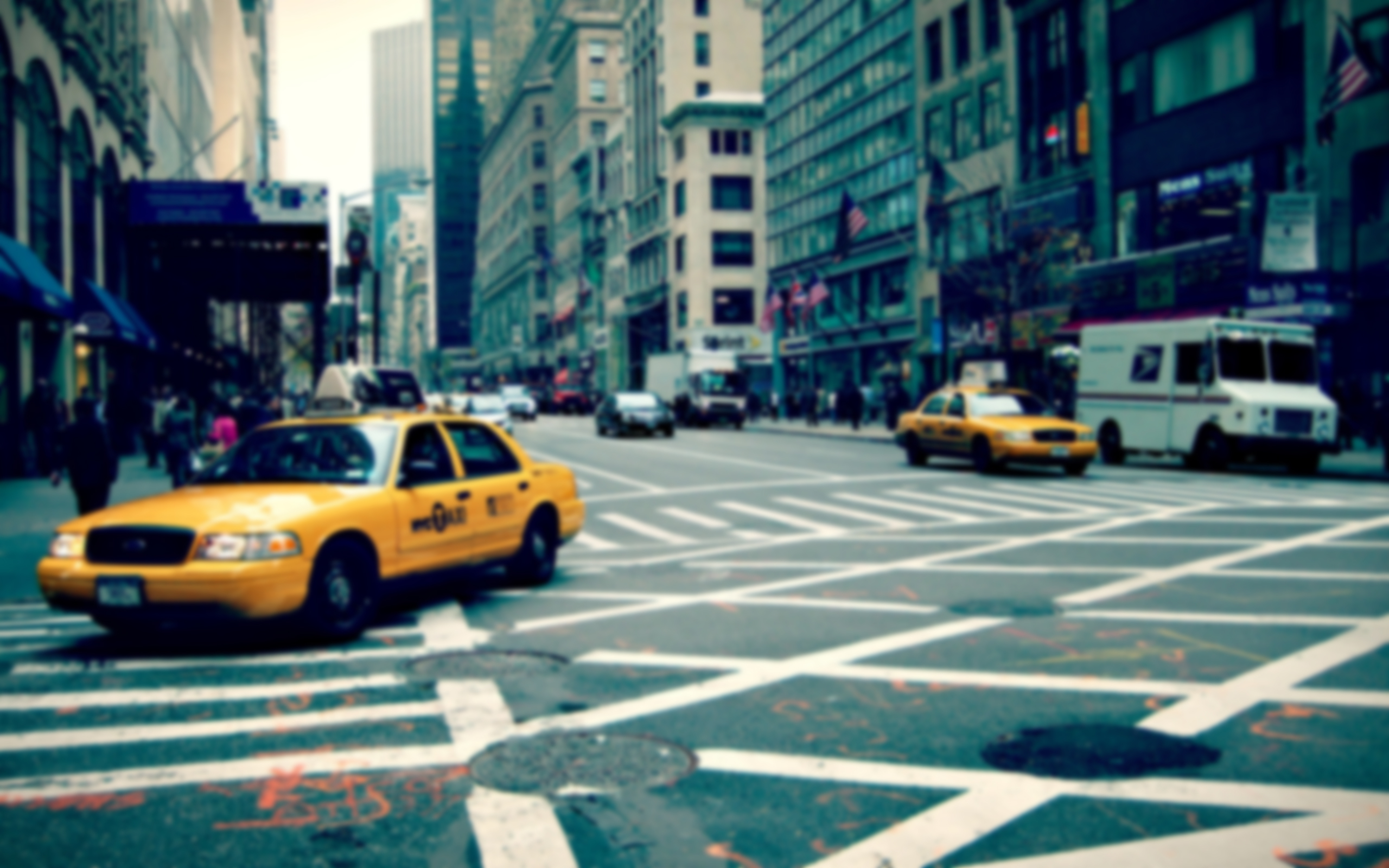
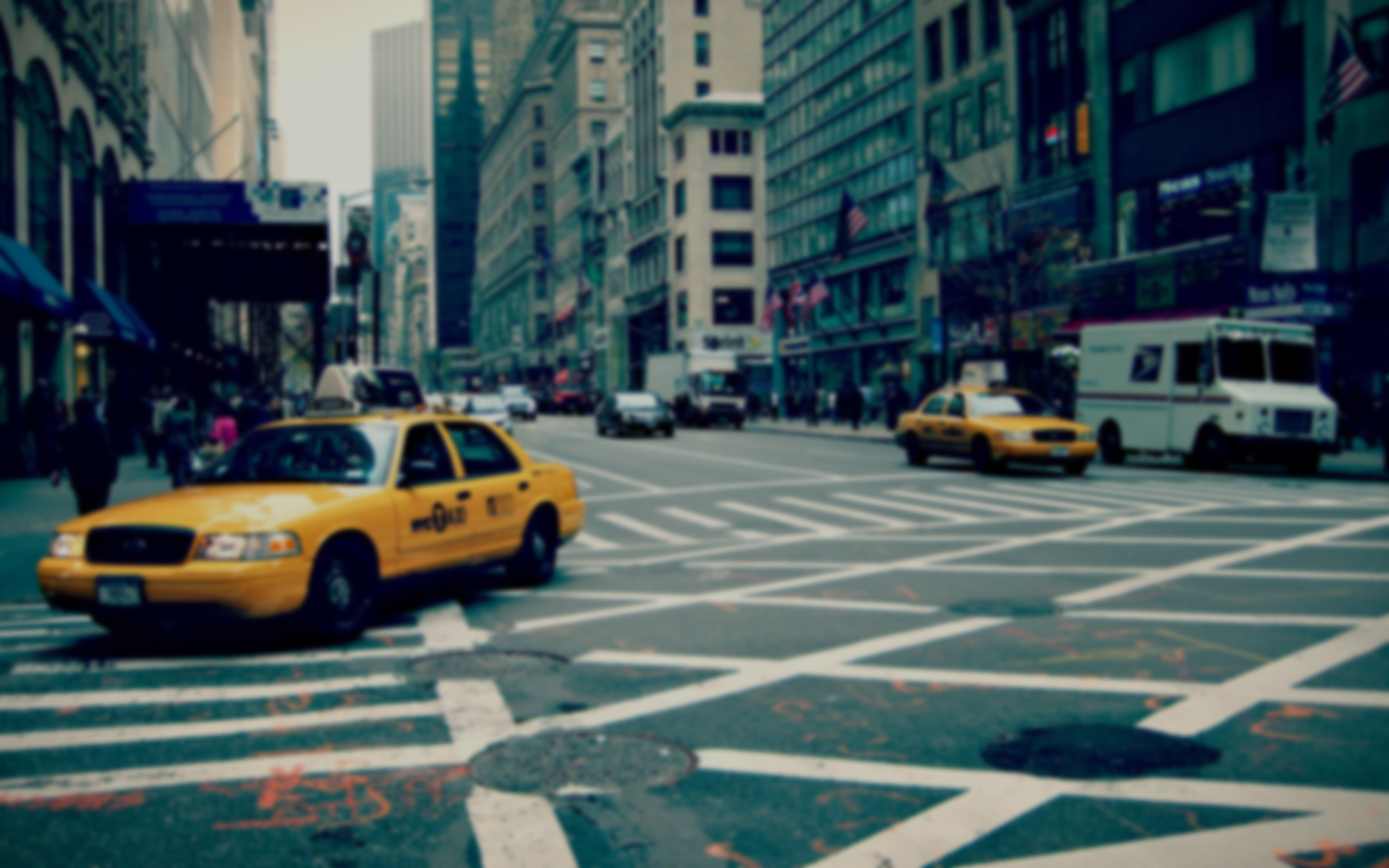
Darken bg and add vignette

diff --git a/style.css b/style.css
@@ -26,8 +26,12 @@
 	left: 0px;
 	width: 100%;
 	height: 100%;
-	background: url("images/mainbg.jpg") no-repeat center bottom fixed;
+	background: radial-gradient(ellipse closest-side,
+				rgba(0,0,0,0), rgba(0,0,0,0.4)),
+				url("images/mainbg.jpg") no-repeat center bottom fixed;
 	background-size: cover;
+	box-shadow: inset 0 0 50px rgba(0, 0, 0, 1);
+
 }
 
 # {
